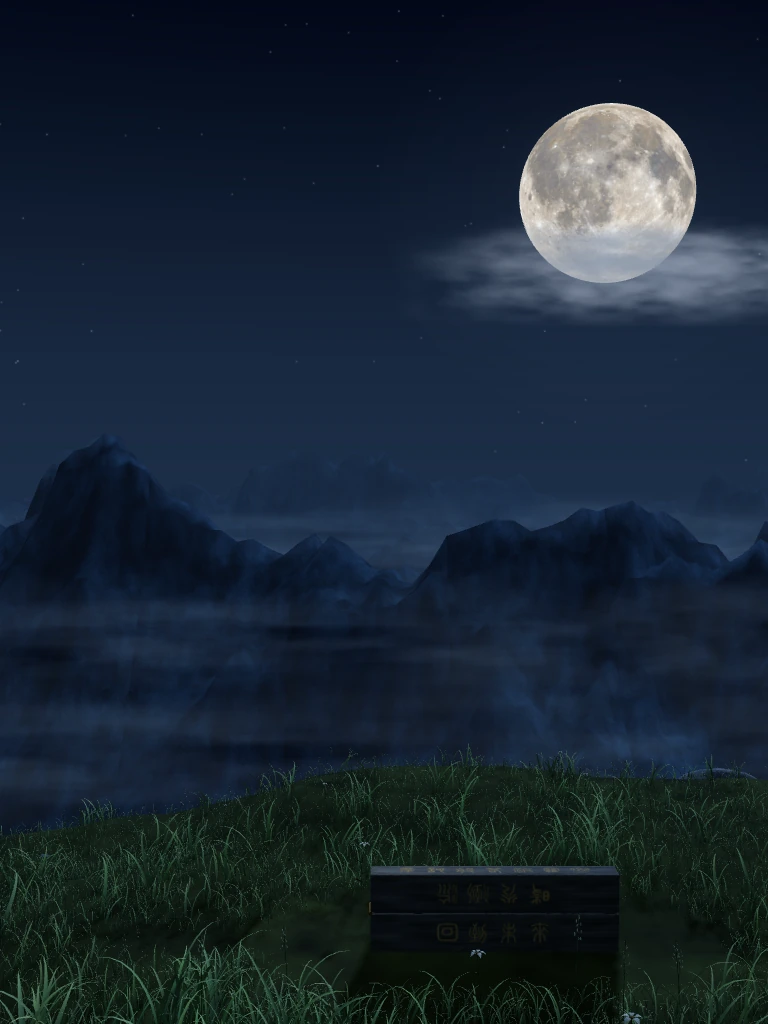
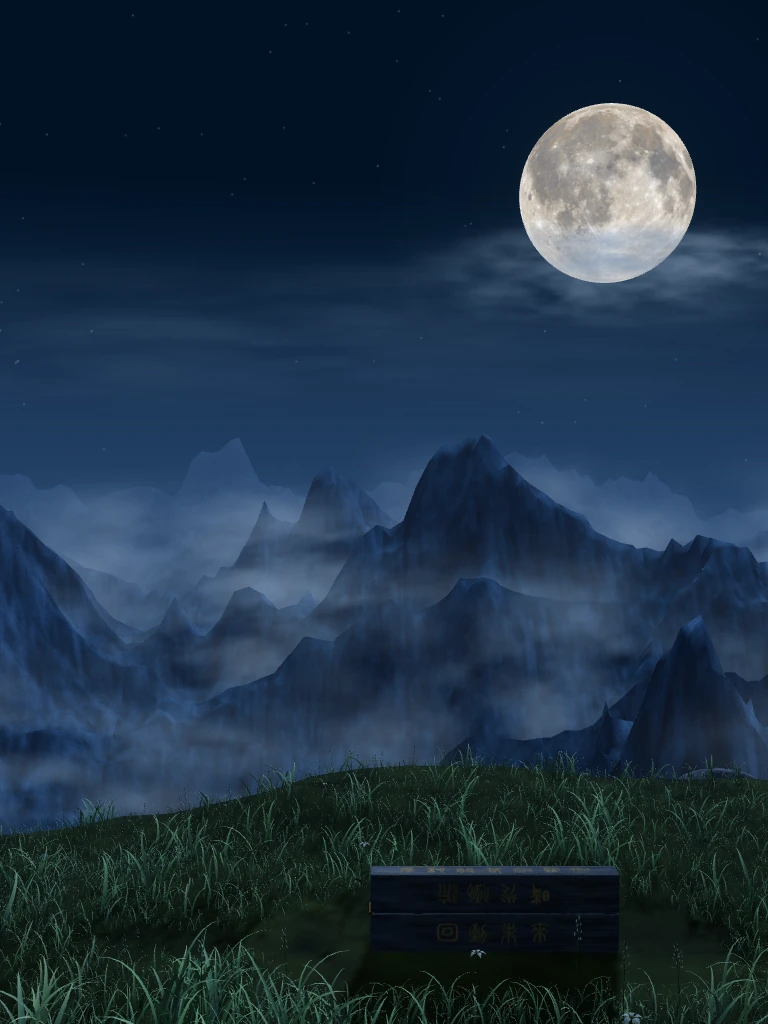
整体色调优化

diff --git a/src/scene/sky.ts b/src/scene/sky.ts
@@ -20,7 +20,7 @@ export async function createSky(lunarMap: THREE.Texture, init: Initialization) {
       vertexShader: `varying vec3 vWorld; void main(){ vWorld=(modelMatrix*vec4(position,1.)).xyz; gl_Position=projectionMatrix*modelViewMatrix*vec4(position,1.); }`,
       fragmentShader: `varying vec3 vWorld;
       void main(){ float h=normalize(vWorld).y;
-      vec3 c=mix(vec3(.012,.028,.065),vec3(.0008,.002,.009),smoothstep(-.06,.4,h));
+      vec3 c=mix(vec3(.018,.056,.140),vec3(.0003,.006,.019),smoothstep(-.06,.25,h));
       gl_FragColor=vec4(c,1.);
       #include <colorspace_fragment>
       }`,
@@ -99,7 +99,8 @@ export async function createSky(lunarMap: THREE.Texture, init: Initialization) {
       new THREE.PlaneGeometry(1, 1),
       new THREE.MeshBasicMaterial({
         map: cloudMap,
-        color: i < 6 ? 0xb5bdce : 0x7893b5,
+        // 月缘云保持银蓝，谷雾提高蓝灰亮度，层间由真实山体深度遮挡。
+        color: i < 6 ? 0xa5b9d4 : 0x9db6d3,
         transparent: true,
         opacity: i < 6 ? 0.62 : 0.26,
         depthWrite: false,
@@ -203,16 +204,31 @@ export async function createSky(lunarMap: THREE.Texture, init: Initialization) {
             span * radius * (0.6 + (i % 2) * 0.2),
             1,
           );
+          // 最后两片月云延伸到左侧天空，形成参考图地平线前的稀薄卷云层。
+          if (i >= 4) {
+            cloud.position.copy(screenPoint(camera, x - .29 * (i - 3), y + .11 + (i - 4) * .05, 68));
+            cloud.scale.set(span * .95, span * .095, 1);
+          }
         } else {
           const j = i - 6;
+          // 错开四层谷雾的横向间距、高度与纵深，避免薄片在同一水平线上叠成条带。
+          const row = Math.floor(j / 6), column = j % 6;
           cloud.position.set(
-            ((j % 6) - 2.5) * 19,
-            -2.5 + Math.floor(j / 6) * 0.7,
-            -12 - Math.floor(j / 6) * 15,
+            (column - 2.5) * 17 + Math.sin(j * 2.7) * 5,
+            -4.2 + row * .9 + Math.sin(j * 1.9) * .9,
+            -13 - row * 19 + Math.cos(j * 1.3) * 3,
           );
-          cloud.scale.set(33 + (j % 3) * 8, 4 + (j % 2) * 2, 1);
+          cloud.scale.set(27 + (j % 3) * 5, 9 + (j % 2) * 3, 1);
+          // 最近一层在支峰前方的低谷铺开，遮住山脚而不吞没峰顶，形成可辨识的云海。
+          if (row === 0) {
+            cloud.position.y = -.5 + Math.sin(j * 1.9) * .6;
+            cloud.position.z = -5 + Math.cos(j * 1.3) * 2;
+            cloud.scale.set(22 + (j % 3) * 3, 5.5 + (j % 2), 1);
+          }
         }
         cloud.quaternion.copy(camera.quaternion);
+        // 轻微倾斜云片，使纹理内部的卷云方向交错，仍朝向当前相机。
+        if (i >= 6) cloud.rotateZ(Math.sin(i * 2.3) * .16);
         cloudBases[i].copy(cloud.position);
         cloudScales[i].copy(cloud.scale);
         // 手机保留两片月云和八片谷雾，减少数量时仍保留完整空间层次。
@@ -238,7 +254,7 @@ export async function createSky(lunarMap: THREE.Texture, init: Initialization) {
         clouds[i].position.x += motion.x;
         clouds[i].position.y += motion.y;
         clouds[i].scale.copy(cloudScales[i]).multiplyScalar(motion.scale);
-        clouds[i].material.opacity = motion.opacity;
+        clouds[i].material.opacity = motion.opacity * (i < 4 ? .76 : i < 6 ? .22 : 2.05);
       }
       const phase = time % 11;
       meteor.visible = !reduced && phase > 1 && phase < 2.4;

diff --git a/src/scene/mountains.ts b/src/scene/mountains.ts
@@ -4,6 +4,7 @@ import { ownTree } from "./resources";
 import { createPlane, computeNormals } from "./geometry";
 import { fbm, mountainHeight } from "./terrain-math";
 import { surfaceTexture } from "./textures";
+import { addMountainSurface } from "./mountain-surface";
 
 /** 远山单独维护几何细节等级，手机减少顶点但保留相同山脊、材质和光照。 */
 export async function createMountains(init: Initialization) {
@@ -19,12 +20,16 @@ export async function createMountains(init: Initialization) {
   async function geometryFor(layer: number, mobile: boolean) {
     init.phase = `mountain-${layer}`;
     const columns = mobile ? (layer < 2 ? 170 : 110) : layer < 2 ? 420 : 270;
-    const rows = mobile ? 36 : 76;
+    // 近层包含独立支峰，纵向细分只增加在这一层；移动端仍有独立的顶点上限。
+    const rows = layer === 0 ? (mobile ? 56 : 130) : mobile ? 36 : 76;
     const geometry = await createPlane(280, 52, columns, rows, init);
     geometry.rotateX(-Math.PI / 2);
     const positions = geometry.attributes.position;
     for (let i = 0; i < positions.count; i++) {
       if (i % 32 === 0) { const pause = init.checkpoint(); if (pause) await pause; }
+      // 把同样数量的横向顶点集中到主要可见山群，外围仍延伸至原有边界。
+      const u = positions.getX(i) / 140;
+      positions.setX(i, Math.sign(u) * Math.pow(Math.abs(u), 1.5) * 140);
       positions.setY(
         i,
         mountainHeight(positions.getX(i), positions.getZ(i), layer),
@@ -47,7 +52,8 @@ export async function createMountains(init: Initialization) {
       color.setHSL(
         0.55 + cliff * 0.04,
         0.13 + (1 - cliff) * 0.1,
-        0.29 + cliff * 0.13 + grain * 0.13 + strata,
+        // 提高冷蓝中间调，月光面与雾中的山脊保留参考图的蓝灰层次。
+        0.34 + cliff * 0.15 + grain * 0.13 + strata,
       );
       color.toArray(colors, i * 3);
     }
@@ -60,10 +66,11 @@ export async function createMountains(init: Initialization) {
     const material = init.track(new THREE.MeshStandardMaterial({
       map: rock,
       bumpMap: rock,
-      bumpScale: layer < 2 ? 0.75 : 0.4,
+      bumpScale: layer < 2 ? 0.22 : 0.12,
       vertexColors: true,
       roughness: 1,
     }));
+    addMountainSurface(material);
     const mesh = new THREE.Mesh(await geometryFor(layer, lightweight), material);
     mesh.position.set(
       layer % 2 ? -12 : 10,
@@ -78,6 +85,9 @@ export async function createMountains(init: Initialization) {
   return {
     group,
     async setQuality(mobile: boolean) {
+      // 竖屏把主峰移入可见山谷，横屏恢复原构图；只移动背景山群，不改宝盒、地面或相机运动。
+      const aspect = window.innerWidth / Math.max(1, window.visualViewport?.height ?? window.innerHeight);
+      group.position.x = aspect < .6 ? 12 : aspect < 1 ? 16 : 0;
       if (mobile === lightweight) return;
       lightweight = mobile;
       // 只在桌面与轻量模式互换时重建；旧几何立即释放，普通 resize 不重复分配。

diff --git a/src/scene/mountain-surface.ts b/src/scene/mountain-surface.ts
@@ -1,0 +1,35 @@
+import * as THREE from "three";
+
+/** 岩壁用连续空间噪声刻出竖向冲沟与交错断层；不增加纹理、透明片或移动端几何。 */
+export function addMountainSurface(material: THREE.MeshStandardMaterial) {
+  material.onBeforeCompile = (shader) => {
+    shader.vertexShader = `varying vec3 vMountainPoint;
+${shader.vertexShader}`.replace("#include <begin_vertex>", `#include <begin_vertex>
+vMountainPoint = position;`);
+    // 声明末尾保留换行，避免与 Three.js 的预处理宏拼接。
+    shader.fragmentShader = `varying vec3 vMountainPoint;
+float mountainHash(vec2 p) { return fract(sin(dot(p, vec2(127.1,311.7))) * 43758.5453); }
+float mountainNoise(vec2 p) {
+  vec2 cell=floor(p), t=fract(p); t=t*t*(3.0-2.0*t);
+  return mix(mix(mountainHash(cell),mountainHash(cell+vec2(1,0)),t.x),
+    mix(mountainHash(cell+vec2(0,1)),mountainHash(cell+vec2(1,1)),t.x),t.y);
+}
+${shader.fragmentShader}`.replace("#include <color_fragment>", `#include <color_fragment>
+// 沟壑随高度缓慢偏转，横向细断层穿过主沟；阴暗处保留冷蓝反射。
+vec3 rockPoint = vMountainPoint;
+float rockWarp = mountainNoise(rockPoint.xz * .34);
+vec2 rockDomain = vec2(rockPoint.x * 2.8 + rockWarp * 2.5 + rockPoint.y * .22,
+  rockPoint.z * 1.6 + rockPoint.y * .14);
+float rockRidge = 1.0 - abs(mountainNoise(rockDomain) * 2.0 - 1.0);
+float rockFine = mountainNoise(rockDomain * 3.7 + rockPoint.y * .4);
+float rockCrack = pow(rockRidge, 14.0);
+float rockStratum = mountainNoise(vec2(rockPoint.x * 1.4 + rockWarp, rockPoint.y * 7.0));
+float rockRelief = rockRidge * .22 + rockFine * .065 - rockCrack * .06 + rockStratum * .025;
+diffuseColor.rgb *= .82 + rockRidge * .85 + rockFine * .24 - rockCrack * .38;
+`).replace("#include <normal_fragment_maps>", `#include <normal_fragment_maps>
+// 屏幕导数使沟壑参与实际月光，远处自动随像素足迹平滑，不靠细碎高亮描线。
+normal = perturbNormalArb(-vViewPosition, normal,
+  vec2(dFdx(rockRelief), dFdy(rockRelief)), faceDirection);`);
+  };
+  material.customProgramCacheKey = () => "mountain-eroded-rock-v1";
+}

diff --git a/src/scene/terrain-math.ts b/src/scene/terrain-math.ts
@@ -1,5 +1,12 @@
 import { chestPlacement, type ChestPlacement } from "./chest-placement.ts";
 
+// 参考图的近层峰位只在初始化时读取；所有画质档位共享这些固定锚点。
+const REFERENCE_SUMMITS = [
+  [-19.5, 18, 2.8, 5.2, 7.5],
+  [-12, 23, 3.2, 6.1, 6.5],
+  [-1, 19, 1.6, 4.2, 5.5],
+] as const;
+
 /** 可复现随机数使响应式重建保持同一片风景，也便于截图回归。 */
 export function seededRandom(seed: number) {
   return () => {
@@ -91,9 +98,32 @@ export function mountainHeight(x: number, z: number, layer: number) {
     frequency *= 2.13;
     amplitude *= 0.48;
   }
-  return (
+  let height = (
     -15 +
     envelope * (peak + ridge * 2.6) -
     Math.pow(envelope, 0.6) * Math.abs(offset) * 0.08
   );
+  // 主峰的低频轮廓不动，沿坡面刻入收敛的细脊，手机简化网格仍采样同一高度场。
+  const erosion = (1 - Math.abs(noise(x * 2.3 + z * .31, z * .83 + seed) * 2 - 1));
+  height -= envelope * erosion * .2;
+  if (layer === 0) {
+    // 近层支峰按参考图的三个轮廓锚点固定，纵深与远峰分开，云雾可以穿过中间的低谷。
+    for (const [cx, cz, top, sx, sz] of REFERENCE_SUMMITS) {
+      const dx = (x - cx) / sx, dz = (z - cz) / sz;
+      const distance = Math.hypot(dx, dz);
+      // 域扭曲和多尺度裂脊形成偏斜肩峰，避免独立支峰成为光滑圆锥。
+      const warp = Math.min(1, distance * 3);
+      const radius = Math.hypot(dx + (fbm(x * .65, z * .55) - .5) * .6 * warp,
+        dz + (fbm(x * .55 + 41, z * .7) - .5) * .45 * warp);
+      const shape = Math.exp(-Math.pow(radius, 1.6) * .85);
+      // 从峰顶向外辐射的沟壑与局部噪声共同打破圆锥，峰顶高度保持稳定。
+      const gully = Math.abs(Math.sin(Math.atan2(dz, dx) * 7 + radius * 3))
+        * Math.min(1, radius * 3) * shape;
+      const brokenRidge = Math.abs(noise(x * .95 + z * .31, z * .85) * 2 - 1)
+        * shape * warp * 3.2;
+      const branch = -15 + (top + 15) * shape - gully - brokenRidge;
+      height = Math.max(height, branch);
+    }
+  }
+  return height;
 }

diff --git a/src/style.css b/src/style.css
@@ -670,6 +670,19 @@ h1 > strong {
 }
 
 /* 两个入口共用固定图标列与提示外层；横向留白容纳完整的 ±6px 抖动。 */
+/* 短竖屏使用最终三维场景的专用截图，避免横屏 cover 把月球裁到标题后面。
+   热点来自同轮 320×480 导出的按钮边界，与背景共用同一平面。 */
+@media (max-height: 499px) and (orientation: portrait) {
+  #app {
+    --static-image: url("/assets/scene-short-portrait.webp");
+    --static-aspect: calc(320 / 480);
+    --static-box-x: calc(54.203125 / 320);
+    --static-box-y: calc(366.265625 / 480);
+    --static-box-w: calc(241.28125 / 320);
+    --static-box-h: calc(98.46875 / 480);
+  }
+}
+
 #journey-choices { max-width: calc(100vw - 12px); outline-offset: 3px; }
 .choice-motion { display: grid; justify-items: start; gap: 10px; padding-inline: 6px; margin-inline: -6px; }
 .journey-link {
@@ -736,6 +749,21 @@ h1 > strong {
 @media (forced-colors: active) {
   .entry-canvas { display: none; }
   .entry-icon[data-model-ready="true"] .entry-fallback { visibility: visible; }
+}
+
+/* 保留现有窄屏换行与字号，只把正文左右边缘限制在刘海和横屏安全区以内。
+   地址栏伸缩仍使用既有 --view-height 与 visualViewport，避免引入第二套高度同步。 */
+@media (max-width: 767px) {
+  .intro {
+    left: max(9%, calc(env(safe-area-inset-left) + 12px));
+    right: max(7%, calc(env(safe-area-inset-right) + 12px));
+  }
+}
+@media (max-height: 499px) {
+  .intro {
+    left: max(8%, calc(env(safe-area-inset-left) + 12px));
+    max-width: calc(100vw - max(8vw, env(safe-area-inset-left)) - env(safe-area-inset-right) - 12px);
+  }
 }
 @media (max-width: 767px) {
   .journey-link { grid-template-columns: 36px minmax(0, 1fr); }

diff --git a/src/scene/chest.ts b/src/scene/chest.ts
@@ -25,7 +25,8 @@ async function makeWood(face: "plain" | "spell" | "name" | "return", init: Initi
     glow = emission.getContext("2d", { willReadFrequently: face === "name" })!;
   glow.fillStyle = "#000000"; glow.fillRect(0, 0, emission.width, emission.height);
   const h = color.height;
-  ctx.fillStyle = "#64635b"; ctx.fillRect(0, 0, 1536, h);
+  // 旧木以中性蓝灰为底，暖金仅留在原刻字和开盒光效中。
+  ctx.fillStyle = "#626973"; ctx.fillRect(0, 0, 1536, h);
   bump.fillStyle = "#909090"; bump.fillRect(0, 0, 1536, h);
   // 不规则浅灰磨斑打散长条木纹，粗糙木质不会呈现拉丝金属的整齐反射。
   for (let i = 0; i < 190; i++) {
@@ -64,6 +65,14 @@ async function makeWood(face: "plain" | "spell" | "name" | "return", init: Initi
     const x = random() * 1536, y = random() > 0.5 ? random() * 9 : h - random() * 9;
     ctx.fillStyle = `rgba(159,143,114,${random() * 0.35})`;
     ctx.fillRect(x, y, random() * 35, 1 + random() * 2);
+  }
+  // 独立种子加入细小断纤维，不改变原木纹及磨边的随机序列，也不覆盖后续刻字。
+  const fibreRandom = seededRandom(8319);
+  for (let i = 0; i < 6000; i++) {
+    if (i % 256 === 0) { const pause = init.checkpoint(); if (pause) await pause; }
+    const x = fibreRandom() * 1536, y = fibreRandom() * h;
+    ctx.fillStyle = fibreRandom() > .5 ? "#c5cbd118" : "#080d1433";
+    ctx.fillRect(x, y, 1 + fibreRandom() * 8, .5 + fibreRandom() * 1.5);
   }
   // 三种纹理同步生成并旋转；展开侧面补偿真实转轴带来的倒置，字形本身不镜像。
   if (face === "spell") {

diff --git a/src/scene/grass-material.ts b/src/scene/grass-material.ts
@@ -5,8 +5,10 @@ export function createGrassMaterials(options: { strength?: number; flower?: bool
   const wind = { value: 0 }, windStrength = { value: 1 };
   const material = new THREE.MeshStandardMaterial({
     // 草叶色来自实例及叶身顶点，花株色来自完整几何；月夜亮部完全接受场景灯光。
-    color: 0xffffff, emissiveIntensity: 0, vertexColors: true,
-    roughness: .86, side: THREE.DoubleSide,
+    // 参考图草坡的银蓝叶尖由材质反射校色，根部仍由原顶点色压暗。
+    color: options.flower ? 0xffffff : new THREE.Color(1.18, 1.18, 1.4), emissiveIntensity: 0, vertexColors: true,
+    // 银蓝边光来自粗糙叶面的实际月光反射，不额外叠加发光描边。
+    roughness: .78, side: THREE.DoubleSide,
   });
   material.name = options.flower ? "meadow-flowers" : "meadow-foliage";
   const depth = new THREE.MeshDepthMaterial({

diff --git a/tests/scene.test.ts b/tests/scene.test.ts
@@ -51,3 +51,14 @@ test("mountain ranges have distinct ridges and continuous branched slopes", () =
     Math.abs(mountainHeight(3.001, 2, 0) - mountainHeight(3, 2, 0)) < 0.1,
   );
 });
+
+// 固定的近层支峰在主峰前形成独立轮廓；不能靠随机网格碰巧获得正确构图。
+test("reference foreground summits remain distinct from the distant ridge", () => {
+  for (const [x, z] of [[-19.5, 18], [-12, 23], [-1, 19]]) {
+    const summit = mountainHeight(x, z, 0);
+    assert.ok(summit > -3, `固定支峰缺失 ${x},${z}`);
+    assert.ok(summit > mountainHeight(x - 3, z, 0) + 1.5);
+    assert.ok(summit > mountainHeight(x + 3, z, 0) + 1.5);
+    assert.ok(Math.abs(summit - mountainHeight(x + .001, z, 0)) < .03);
+  }
+});

diff --git a/src/scene/meadow-geometry.ts b/src/scene/meadow-geometry.ts
@@ -6,7 +6,8 @@ export function createMeadowBlade(segments = 9) {
   const positions: number[] = [], colors: number[] = [], indices: number[] = [];
   for (let i = 0; i <= segments; i++) {
     const t = i / segments;
-    const width = .026 * Math.pow(1 - t, .72) * (.8 + .35 * Math.sin(t * Math.PI));
+    // 略宽的叶腹保留中央折脊受光，宽度仍落在 vegetationReach 的既有避让包络内。
+    const width = .029 * Math.pow(1 - t, .72) * (.8 + .35 * Math.sin(t * Math.PI));
     const bend = .44 * t * t;
     for (let side = -1; side <= 1; side++) {
       positions.push(side * width, .82 * t - .25 * t ** 4, bend + (side === 0 ? .007 * Math.sin(t * Math.PI) : 0));

diff --git a/src/scene.ts b/src/scene.ts
@@ -71,7 +71,8 @@ export async function createScene(
   renderer.shadowMap.autoUpdate = false;
   const scene = new THREE.Scene();
   ownTree(init, scene);
-  scene.fog = new THREE.FogExp2(0x203552, 0.009);
+  // 蓝灰距离雾把远山与地平线连在一起，近景仍保留墨绿和灰黑木色。
+  scene.fog = new THREE.FogExp2(0x304f79, 0.0105);
   const camera = new THREE.PerspectiveCamera(42, 1, 0.1, 350);
   let disposed = false,
     frameCount = 0,

diff --git a/src/config.ts b/src/config.ts
@@ -24,7 +24,8 @@ export const sceneConfig = {
       height: 4.0,
       targetY: 3.3,
       fov: 42,
-      moon: [0.79, 0.24, 0.12],
+      // 参考图月面中心为 (1324, 215)，直径约 186px；半径按画面高度维护。
+      moon: [0.792, 0.2285, 0.0955],
     },
     tablet: {
       cameraX: -1.8,

diff --git a/scripts/build-assets.py b/scripts/build-assets.py
@@ -4,7 +4,7 @@ from PIL import Image
 
 ROOT = Path(__file__).resolve().parents[1]
 # 先检查所有输入，避免捕获不完整时只更新一部分降级图。
-names = ("desktop", "tablet", "mobile", "short")
+names = ("desktop", "tablet", "mobile", "short", "short-portrait")
 for name in names:
     source = ROOT / "output" / "playwright" / f"scene-{name}.png"
     if not source.is_file():
